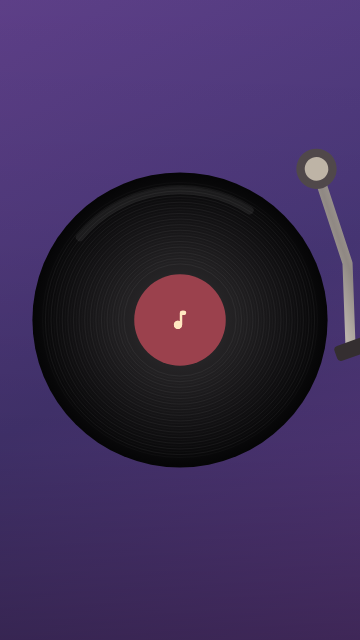
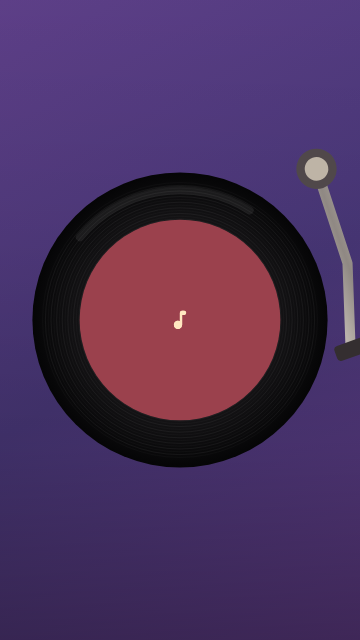
fix: 放大黑胶播放器封面并更新样式预览

Changed region(s): [[0.2139, 0.3438, 0.7944, 0.6562]]

diff --git a/lib/features/player/presentation/styles/vinyl_player_stage.dart b/lib/features/player/presentation/styles/vinyl_player_stage.dart
@@ -100,7 +100,7 @@ class _VinylPlayerStageState extends ConsumerState<VinylPlayerStage>
                         painter: const VinylRecordPainter(),
                         child: Center(
                           child: _VinylCenterLabel(
-                            size: recordSize * 0.31,
+                            size: recordSize * 0.68,
                             trackId: _displayedTrack?.id ?? 'empty',
                             imageProvider: imageProvider,
                           ),
